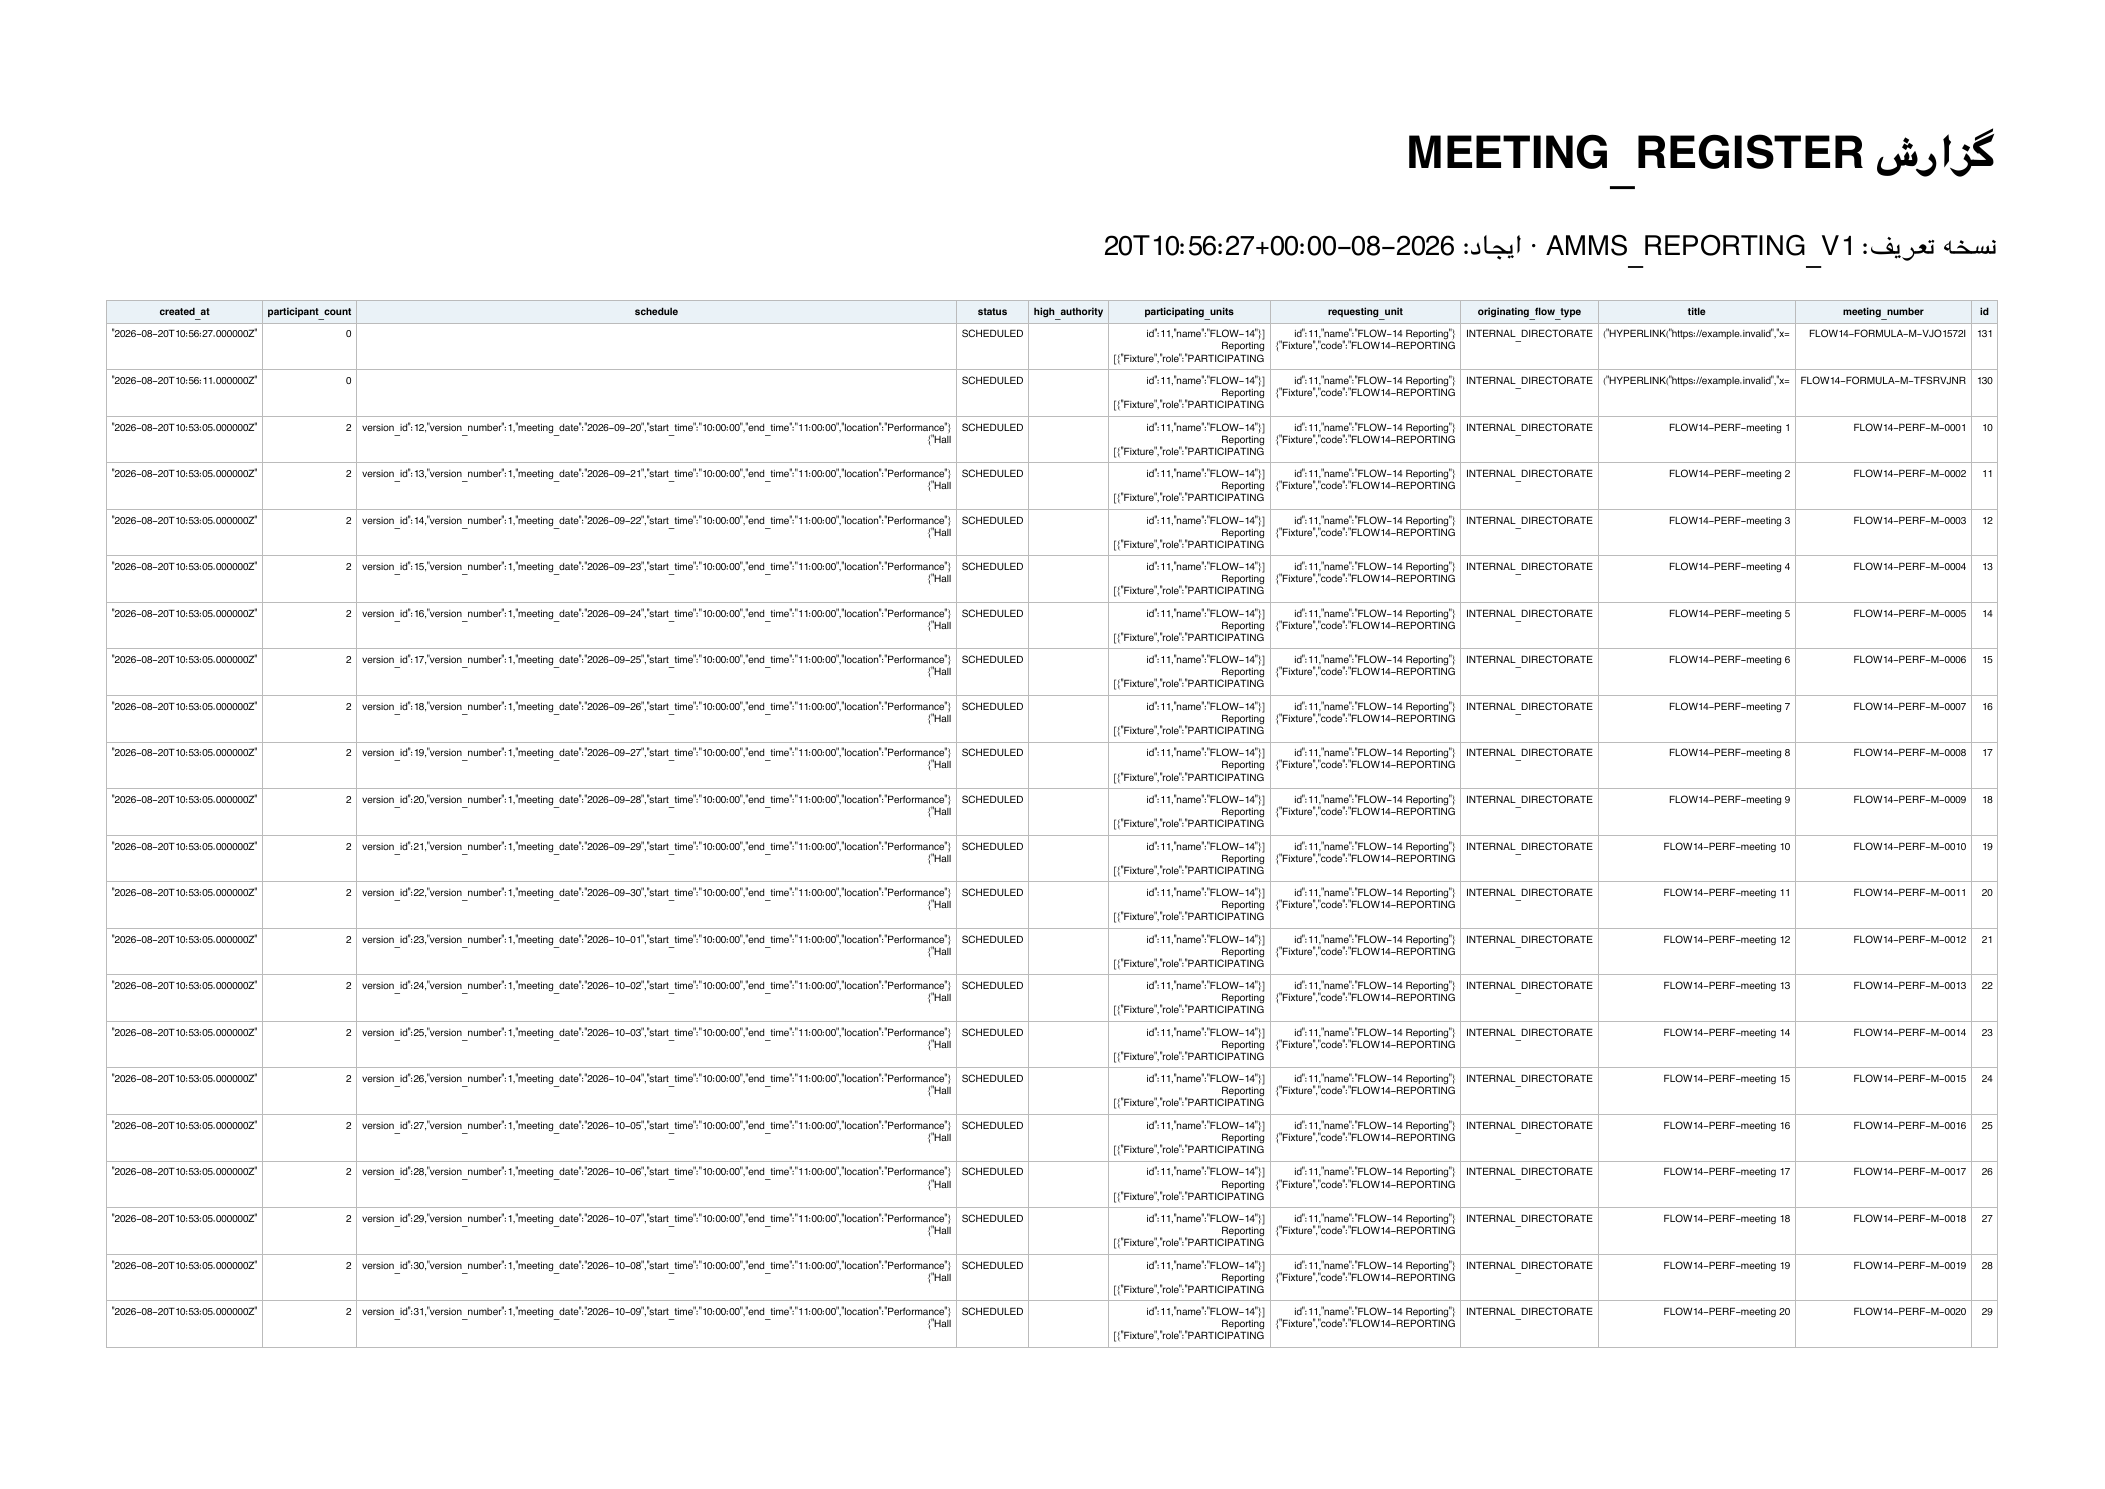
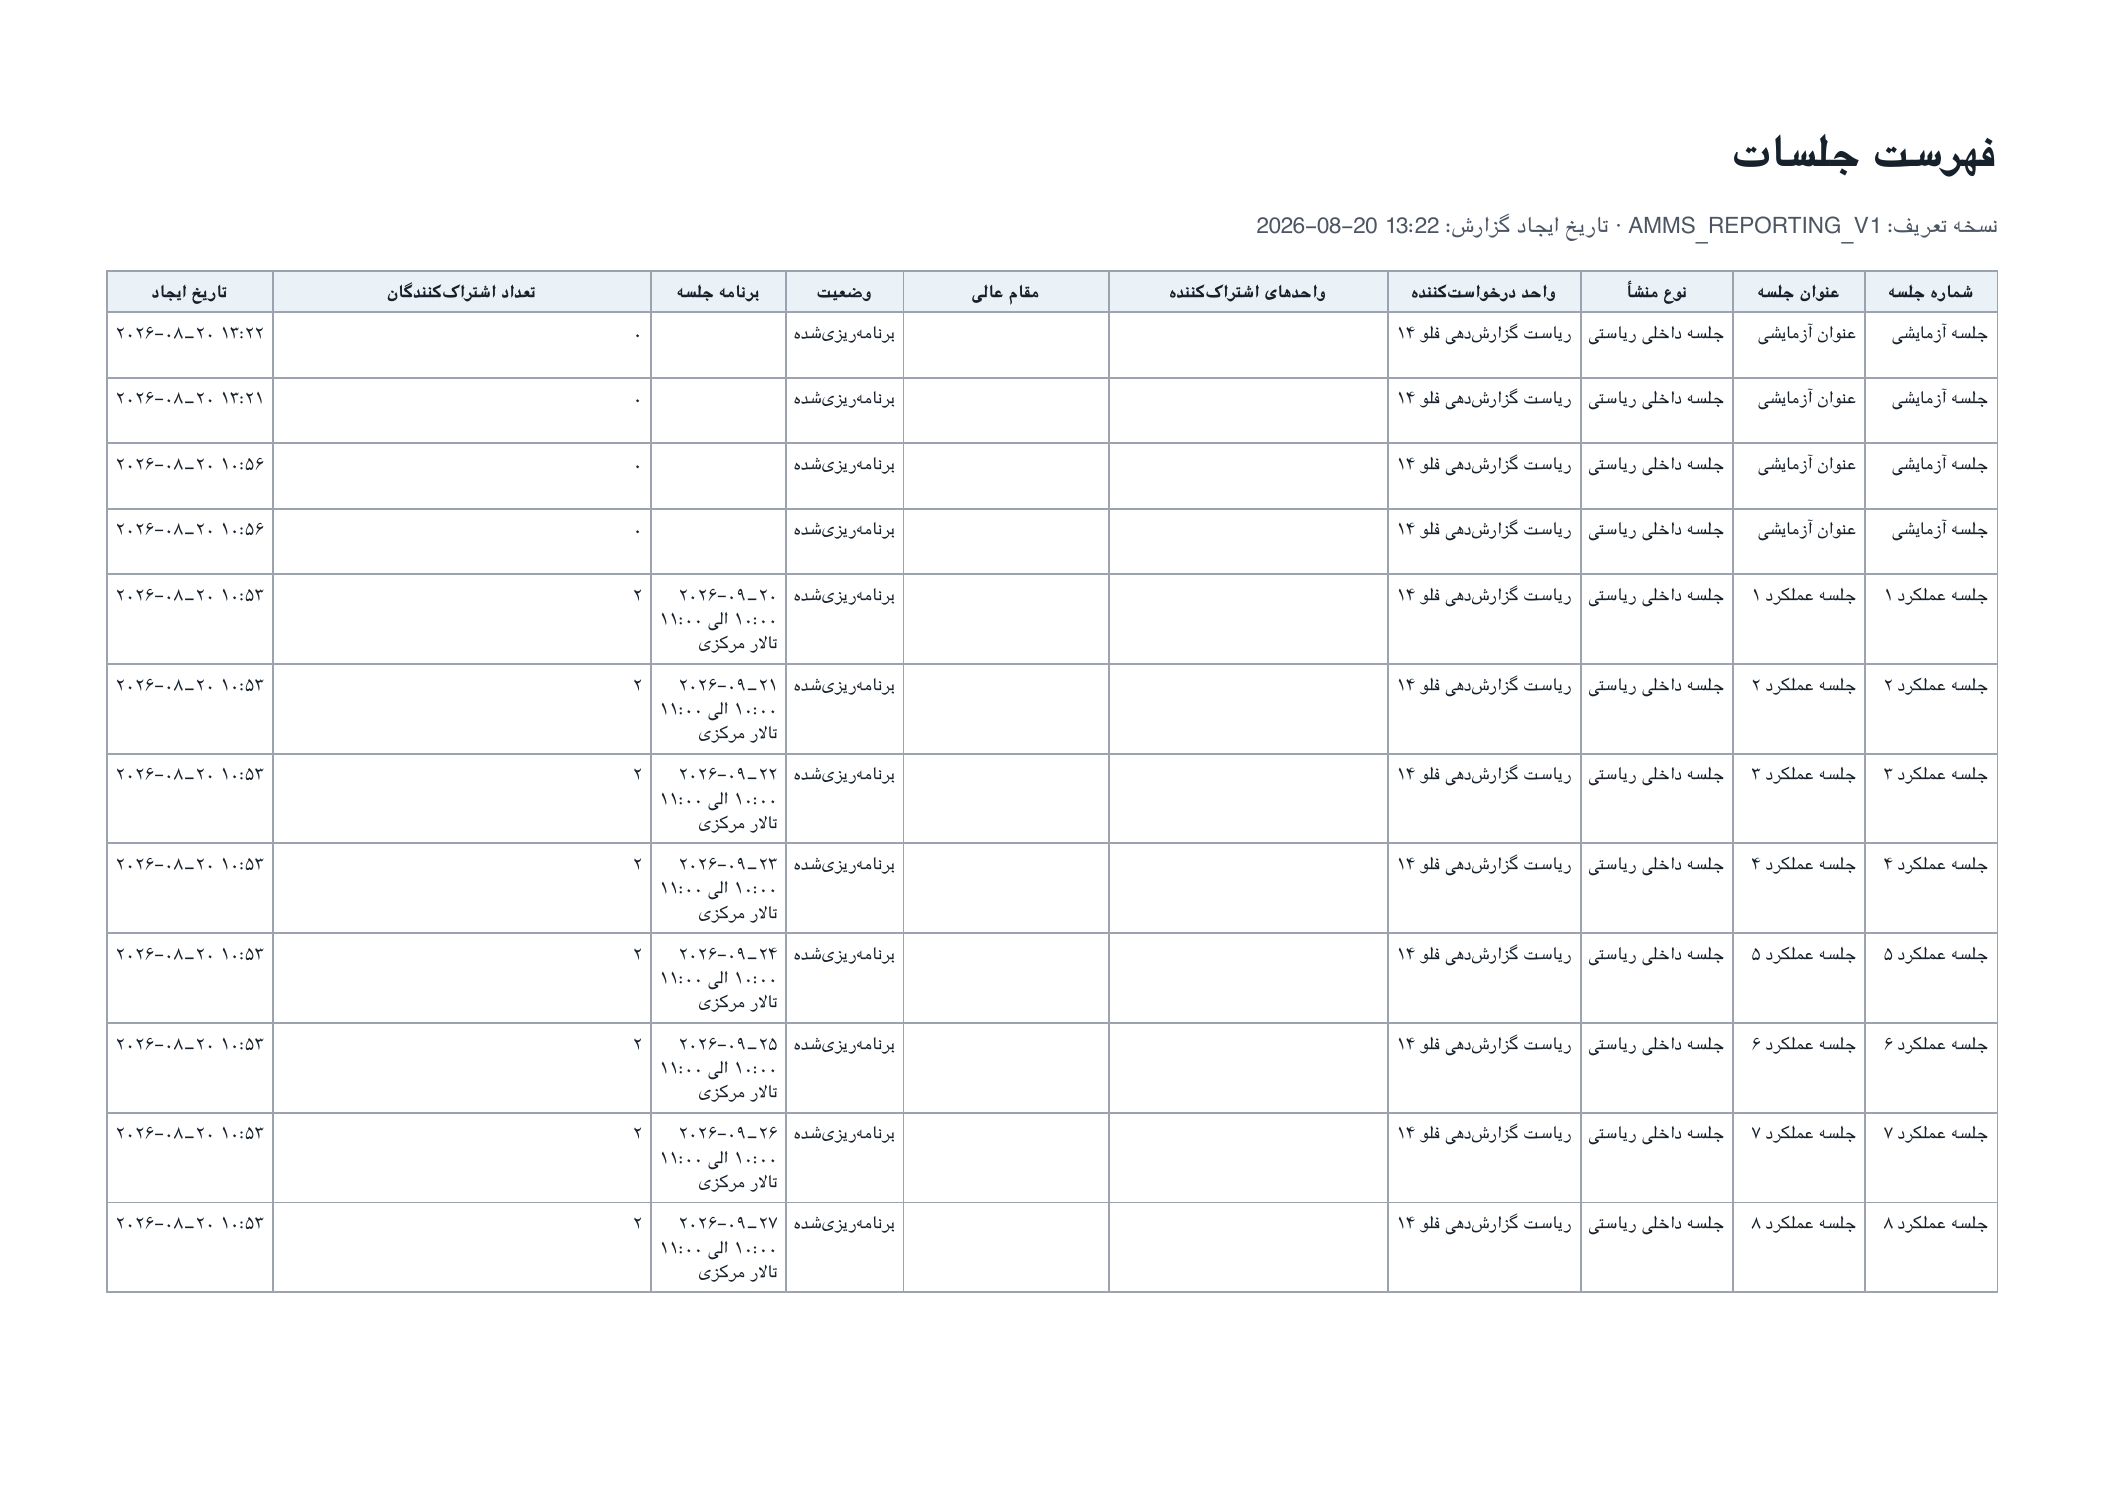
fix(flow-14): localize PDF presentation

Changed region(s): [[0.0618, 0.0927, 0.9572, 0.8959]]

diff --git a/backend/app/Reporting/Exports/ReportExportManager.php b/backend/app/Reporting/Exports/ReportExportManager.php
@@ -119,19 +119,156 @@ final class ReportExportManager
 
     private function pdf(array $rows, ReportExport $export): string
     {
-        $html = '<!doctype html><html lang="fa" dir="rtl"><head><meta charset="utf-8"><style>body{font-family:dejavusans;direction:rtl}h1{font-size:18pt}table{width:100%;border-collapse:collapse;font-size:8pt}th,td{border:1px solid #bbb;padding:5px;vertical-align:top}th{background:#eaf2f7}</style></head><body>';
-        $html .= '<h1>گزارش '.$this->escape($export->report_type).'</h1><p>نسخه تعریف: '.self::escape(ReportingMetricCatalog::DEFINITION_VERSION).' · ایجاد: '.now()->toIso8601String().'</p>';
+        $title = $this->pdfReportTitle($export->report_type);
+        $generatedAt = now()->format('Y-m-d H:i');
+        $html = '<!doctype html><html lang="fa" dir="rtl"><head><meta charset="utf-8"><style>body{font-family:dejavusans;direction:rtl;color:#17212b}h1{font-size:18pt;margin-bottom:8px}p.meta{font-size:9pt;color:#4b5563;margin-top:0}table{width:100%;border-collapse:collapse;table-layout:fixed;font-size:7.2pt;direction:rtl}th,td{border:1px solid #9ca3af;padding:4px;vertical-align:top;word-wrap:break-word;overflow-wrap:anywhere;line-height:1.35}th{background:#eaf2f7;font-weight:bold}td{direction:rtl;unicode-bidi:plaintext}.ltr{direction:ltr;unicode-bidi:embed;display:inline-block}</style></head><body>';
+        $html .= '<h1>'.$this->escape($title).'</h1><p class="meta">نسخه تعریف: '.$this->escape(ReportingMetricCatalog::DEFINITION_VERSION).' · تاریخ ایجاد گزارش: <span class="ltr">'.$this->escape($generatedAt).'</span></p>';
         if (!$rows) { $html .= '<p>دادهای در حوزه و بازهٔ انتخابشده موجود نیست.</p>'; }
         else {
-            $headers = array_keys((array) $rows[0]);
-            $html .= '<table><thead><tr>'.implode('', array_map(fn ($h) => '<th>'.$this->escape((string) $h).'</th>', $headers)).'</tr></thead><tbody>';
-            foreach ($rows as $row) $html .= '<tr>'.implode('', array_map(fn ($h) => '<td>'.$this->escape($this->cell($row[$h] ?? null)).'</td>', $headers)).'</tr>';
+            $headers = array_values(array_filter(array_keys((array) $rows[0]), fn ($field): bool => !$this->isPdfInternalField((string) $field)));
+            $html .= '<table><thead><tr>'.implode('', array_map(fn ($h) => '<th>'.$this->escape($this->pdfHeaderLabel((string) $h)).'</th>', $headers)).'</tr></thead><tbody>';
+            foreach ($rows as $row) $html .= '<tr>'.implode('', array_map(fn ($h) => '<td>'.$this->pdfEscapeCell($row[$h] ?? null, (string) $h).'</td>', $headers)).'</tr>';
             $html .= '</tbody></table>';
         }
         $html .= '</body></html>';
         $mpdf = new Mpdf(['mode' => 'utf-8', 'format' => 'A4-L', 'default_font' => 'dejavusans', 'autoScriptToLang' => true, 'autoLangToFont' => true]);
         $mpdf->WriteHTML($html);
         return $mpdf->Output('', 'S');
+    }
+
+    private function pdfReportTitle(string $reportType): string
+    {
+        return [
+            'DIRECTORATE_SUMMARY' => 'خلاصه مدیریتی ریاستها',
+            'MEETING_REGISTER' => 'فهرست جلسات',
+            'HIGH_AUTHORITY_MEETING_REGISTER' => 'فهرست جلسات مقام عالی',
+            'MEETING_REQUEST_REGISTER' => 'فهرست درخواستهای جلسه',
+            'ATTENDANCE_REGISTER' => 'فهرست حضور و اشتراک',
+            'DECISION_REGISTER' => 'فهرست تصمیمها',
+            'ACTION_ITEM_REGISTER' => 'فهرست اقدامات پیگیری',
+            'EXCEPTION_LIFECYCLE_REGISTER' => 'فهرست چرخهٔ رویدادهای استثنا',
+        ][$reportType] ?? 'گزارش مدیریتی';
+    }
+
+    private function pdfHeaderLabel(string $field): string
+    {
+        return [
+            'id' => 'شناسه',
+            'meeting_number' => 'شماره جلسه',
+            'request_number' => 'شماره درخواست',
+            'title' => 'عنوان جلسه',
+            'subject' => 'موضوع',
+            'description' => 'شرح',
+            'originating_flow_type' => 'نوع منشأ',
+            'requesting_unit' => 'واحد درخواستکننده',
+            'requesting_employee' => 'کارمند درخواستکننده',
+            'participating_units' => 'واحدهای اشتراککننده',
+            'target_units' => 'واحدهای هدف',
+            'high_authority' => 'مقام عالی',
+            'status' => 'وضعیت',
+            'schedule' => 'برنامه جلسه',
+            'participant_count' => 'تعداد اشتراککنندگان',
+            'created_at' => 'تاریخ ایجاد',
+            'meeting_date' => 'تاریخ جلسه',
+            'start_time' => 'زمان آغاز',
+            'end_time' => 'زمان پایان',
+            'location' => 'محل برگزاری',
+            'decision_number' => 'شماره تصمیم',
+            'decision_title' => 'عنوان تصمیم',
+            'followup_count' => 'تعداد پیگیریها',
+            'action_item_count' => 'تعداد اقدامات',
+            'due_date' => 'تاریخ سررسید',
+            'priority' => 'اولویت',
+            'case_type' => 'نوع رویداد',
+            'applied_at' => 'تاریخ اعمال',
+            'event_type' => 'نوع رویداد',
+        ][$field] ?? 'جزئیات';
+    }
+
+    private function isPdfInternalField(string $field): bool
+    {
+        return $field === 'id' || str_ends_with($field, '_id') || in_array($field, ['storage_path', 'storage_disk', 'checksum', 'requested_by_user_id'], true);
+    }
+
+    private function pdfEscapeCell(mixed $value, string $field): string
+    {
+        $escaped = $this->escape($this->pdfCell($value, $field));
+        if (in_array($field, ['created_at', 'applied_at', 'meeting_date', 'due_date'], true)) return '<span class="ltr">'.$escaped.'</span>';
+        return nl2br($escaped, false);
+    }
+
+    private function pdfCell(mixed $value, string $field): string
+    {
+        if ($value === null) return '';
+        if ($field === 'requesting_unit' || $field === 'high_authority' || $field === 'requesting_employee') return $this->pdfPersonOrUnit($value);
+        if (in_array($field, ['participating_units', 'target_units'], true)) return $this->pdfList($value);
+        if ($field === 'schedule') return $this->pdfSchedule($value);
+        if (in_array($field, ['created_at', 'applied_at'], true)) return $this->pdfDateTime($value);
+        if (in_array($field, ['meeting_date', 'due_date'], true)) return $this->pdfDate($value);
+        if ($field === 'status') return $this->pdfStatus((string) $value);
+        if (in_array($field, ['title', 'meeting_number', 'request_number', 'originating_flow_type'], true)) return $this->pdfBusinessText((string) $value, $field);
+        if (is_scalar($value)) return $this->faDigits((string) $value);
+        return $this->pdfList($value);
+    }
+
+    private function pdfPersonOrUnit(mixed $value): string
+    {
+        if (is_array($value)) {
+            foreach (['name', 'display_name', 'employee_name', 'unit_name'] as $key) if (isset($value[$key]) && is_scalar($value[$key])) return $this->pdfLocalizedText((string) $value[$key]);
+            foreach (['employee', 'unit'] as $key) if (isset($value[$key])) return $this->pdfPersonOrUnit($value[$key]);
+        }
+        return is_scalar($value) ? $this->pdfLocalizedText((string) $value) : '';
+    }
+
+    private function pdfLocalizedText(string $value): string
+    {
+        return strtr($value, ['FLOW-14 Reporting Fixture' => 'ریاست گزارشدهی فلو ۱۴', 'Performance Hall' => 'تالار مرکزی']);
+    }
+
+    private function pdfBusinessText(string $value, string $field): string
+    {
+        if (preg_match('/^FLOW14-FORMULA-M-/i', $value) || preg_match('/^[=+\-@]/', $value)) return $field === 'title' ? 'عنوان آزمایشی' : 'جلسه آزمایشی';
+        if (preg_match('/FLOW14-PERF-(?:M-)?(?:meeting\s*)?(\d+)/i', $value, $match)) return 'جلسه عملکرد '.$this->faDigits((string) ((int) $match[1]));
+        return ['INTERNAL_DIRECTORATE' => 'جلسه داخلی ریاستی', 'EXTERNAL_DIRECTORATE' => 'جلسه بیرونی ریاستی', 'MULTILATERAL' => 'جلسه چندجانبه'][$value] ?? $this->pdfLocalizedText($value);
+    }
+
+    private function pdfList(mixed $value): string
+    {
+        if (!is_array($value)) return is_scalar($value) ? (string) $value : '';
+        if (array_is_list($value)) return implode('، ', array_values(array_filter(array_map(fn ($item) => $this->pdfPersonOrUnit($item), $value), fn (string $item): bool => $item !== '')));
+        return $this->pdfPersonOrUnit($value);
+    }
+
+    private function pdfSchedule(mixed $value): string
+    {
+        if (!is_array($value)) return is_scalar($value) ? (string) $value : '';
+        $lines = [];
+        if (!empty($value['meeting_date'])) $lines[] = $this->pdfDate($value['meeting_date']);
+        if (!empty($value['start_time']) || !empty($value['end_time'])) $lines[] = $this->faDigits(substr((string) ($value['start_time'] ?? ''), 0, 5).' الی '.substr((string) ($value['end_time'] ?? ''), 0, 5));
+        if (!empty($value['location'])) $lines[] = $this->pdfLocalizedText((string) $value['location']);
+        return implode("\n", $lines);
+    }
+
+    private function pdfDateTime(mixed $value): string
+    {
+        $date = date_create((string) $value);
+        return $date ? $this->faDigits($date->format('Y-m-d H:i')) : (string) $value;
+    }
+
+    private function pdfDate(mixed $value): string
+    {
+        $date = date_create((string) $value);
+        return $date ? $this->faDigits($date->format('Y-m-d')) : (string) $value;
+    }
+
+    private function pdfStatus(string $status): string
+    {
+        return ['SCHEDULED' => 'برنامهریزیشده', 'POSTPONED' => 'به تعویق افتاده', 'CANCELLED' => 'لغوشده', 'IN_PROGRESS' => 'در حال برگزاری', 'HELD' => 'برگزارشده', 'COMPLETED' => 'تکمیلشده'][$status] ?? $status;
+    }
+
+    private function faDigits(string $value): string
+    {
+        return strtr($value, ['0' => '۰', '1' => '۱', '2' => '۲', '3' => '۳', '4' => '۴', '5' => '۵', '6' => '۶', '7' => '۷', '8' => '۸', '9' => '۹']);
     }
 
     private function xlsx(array $rows, ReportExport $export): string

diff --git a/FLOW14_PDF_VISUAL_FIX.md b/FLOW14_PDF_VISUAL_FIX.md
@@ -1,0 +1,10 @@
+# FLOW-14 PDF Presentation Verification
+
+- **Files/code changed:** `backend/app/Reporting/Exports/ReportExportManager.php` PDF presentation helpers; regenerated `flow14_pdf_visual_gate_page1.png`; this note.
+- **Business/reporting logic changed:** **NO**. Metrics, filters, scope, authorization, schema, source rows, statuses, identities, and export security semantics were not changed.
+- **Focused verification:** **PASS** — PDF parses, representative page renders, Persian/Dari RTL title and headers are readable, layout has no clipping/overlap, and export/source-immutability checks remain green.
+- **Raw JSON in official PDF:** **NO**. Official PDF cells use human-readable Persian/Dari values; internal IDs and raw API field names are not rendered.
+- **RTL date rendering fixed:** **YES**. Generated metadata uses an unambiguous `YYYY-MM-DD HH:MM` LTR-isolated display inside the RTL report; schedule dates and times are human-readable.
+- **Final status:** **FLOW-14 — PDF PRESENTATION VERIFICATION COMPLETE — PENDING EXPLICIT USER APPROVAL**.
+
+FLOW-15 was not started. FLOW-10B remains deferred. FLOW-14 was not auto-frozen.
